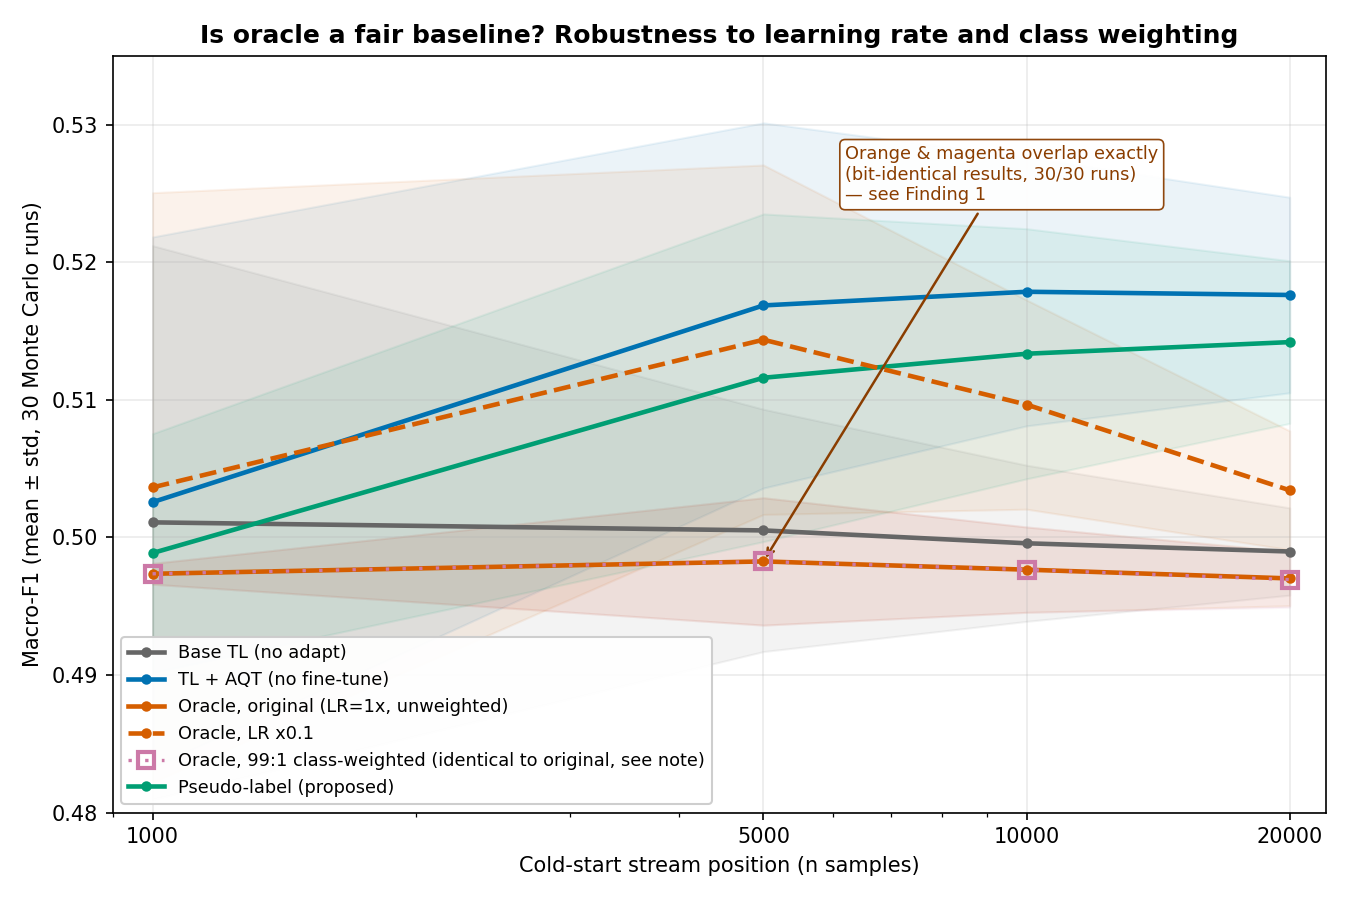
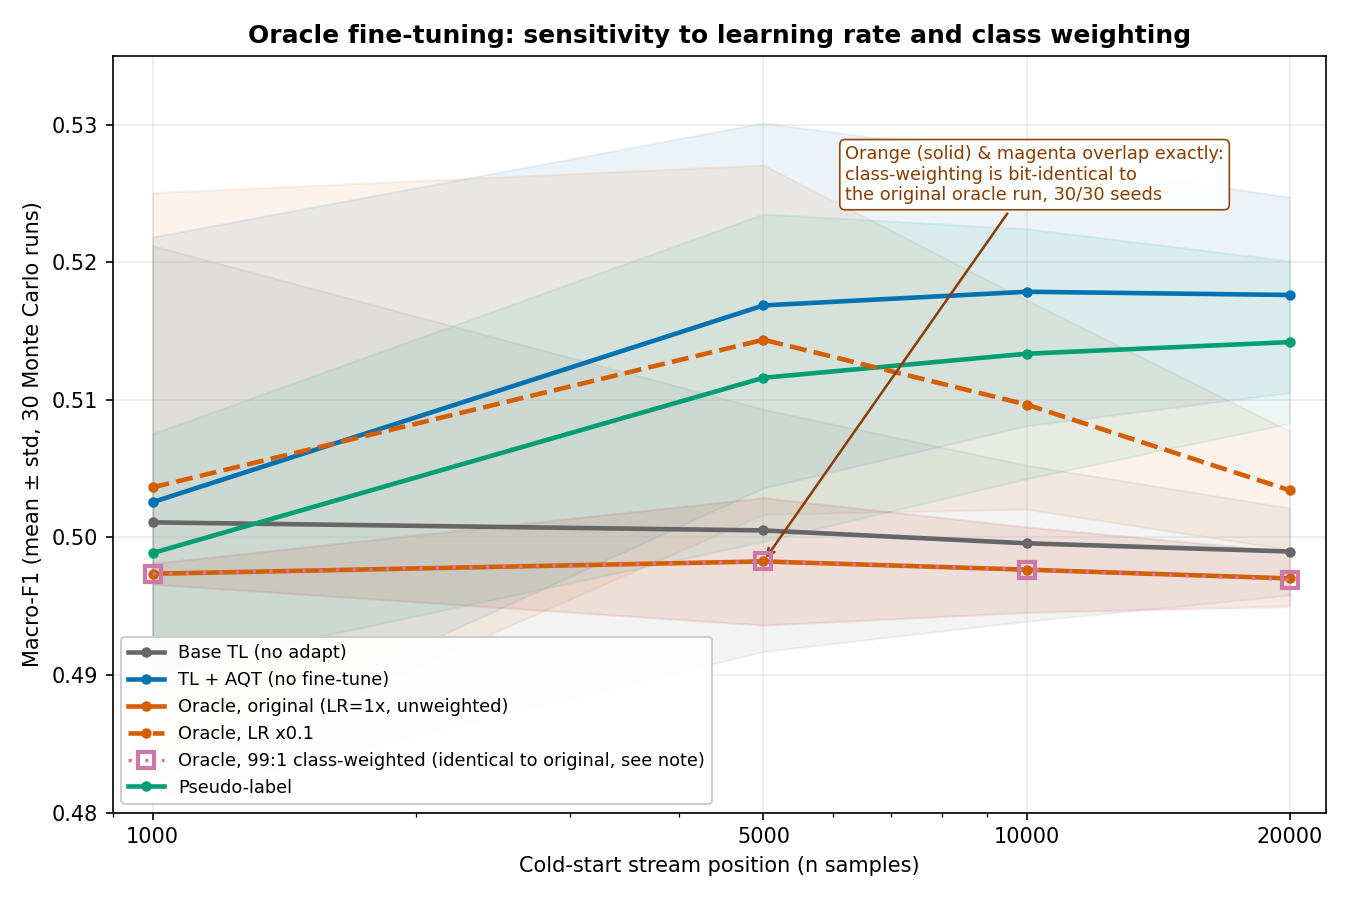
Fix Fig. 1 title/legend/annotation for Round 2 review response
Remove question-style title, drop editorializing "(proposed)" label on
the pseudo-label series, and replace the dangling "see Finding 1"
annotation reference with a self-contained description.

Claude-Session: https://claude.ai/code/session_01HGLFL8Pr35VNmCiqnnK5Gy

diff --git a/plot_robustness.py b/plot_robustness.py
@@ -22,7 +22,7 @@ SERIES = [
     # Drawn last, on top, with large hollow markers and a sparse dotted line so it
     # is visible where it sits exactly on top of the original oracle (see caption).
     ("5a_oracle_classweighted", "Oracle, 99:1 class-weighted (identical to original, see note)", "#CC79A7", (0, (1, 4)), "s", 8, 5),
-    ("5b_full_atl_pseudo", "Pseudo-label (proposed)", "#009E73", "-", "o", 4, 2),
+    ("5b_full_atl_pseudo", "Pseudo-label", "#009E73", "-", "o", 4, 2),
 ]
 
 fig, ax = plt.subplots(figsize=(9, 6))
@@ -37,7 +37,7 @@ for cfg_id, label, color, style, marker, msize, z in SERIES:
     ax.fill_between(checkpoints, means - stds, means + stds, color=color, alpha=0.08, zorder=1)
 
 ax.annotate(
-    "Orange & magenta overlap exactly\n(bit-identical results, 30/30 runs)\n— see Finding 1",
+    "Orange (solid) & magenta overlap exactly:\nclass-weighting is bit-identical to\nthe original oracle run, 30/30 seeds",
     xy=(5000, np.mean(combined["5a_full_atl_oracle"]["5000"])),
     xytext=(6200, 0.5245),
     fontsize=8.5, color="#8a3d00", ha="left",
@@ -50,7 +50,7 @@ ax.set_xlim(900, 22000)
 ax.set_ylim(0.48, 0.535)
 ax.set_xlabel("Cold-start stream position (n samples)")
 ax.set_ylabel("Macro-F1 (mean ± std, 30 Monte Carlo runs)")
-ax.set_title("Is oracle a fair baseline? Robustness to learning rate and class weighting", fontsize=12, fontweight="bold")
+ax.set_title("Oracle fine-tuning: sensitivity to learning rate and class weighting", fontsize=12, fontweight="bold")
 ax.legend(fontsize=8.5, loc="lower left", framealpha=0.95)
 ax.grid(alpha=0.25)
 ax.set_xticks(checkpoints)
